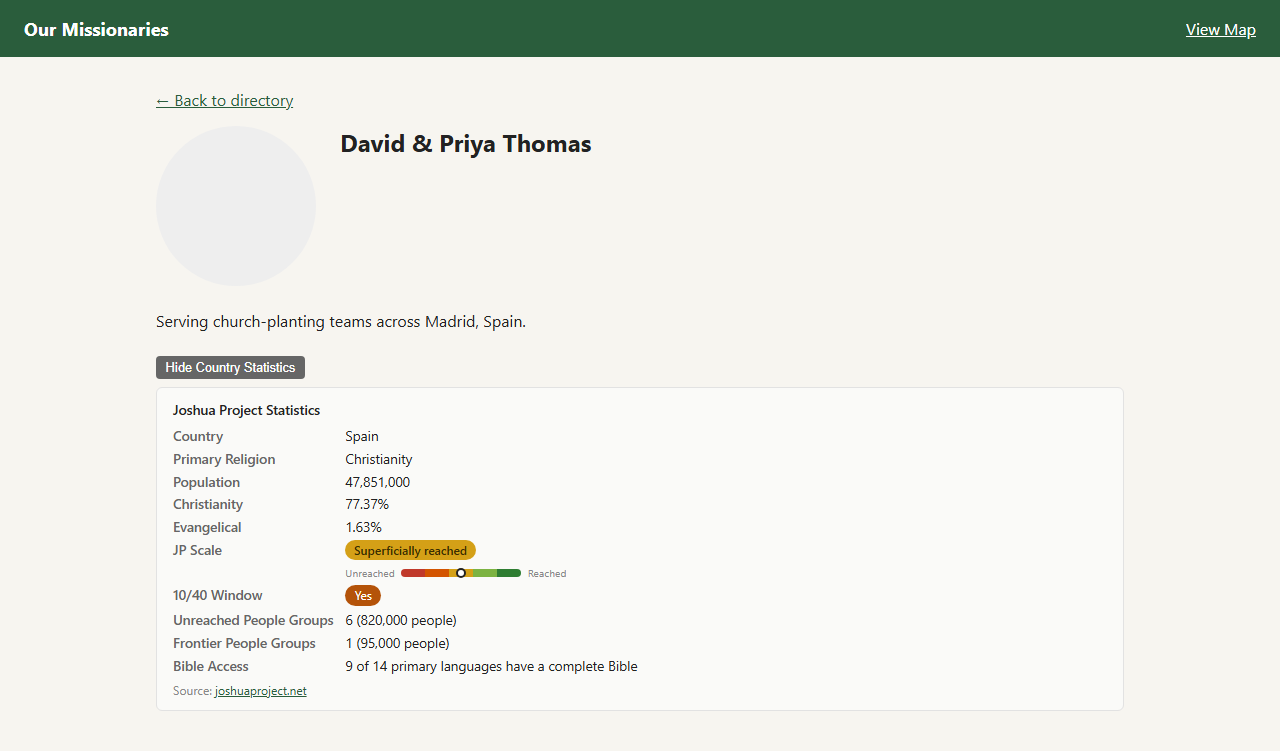
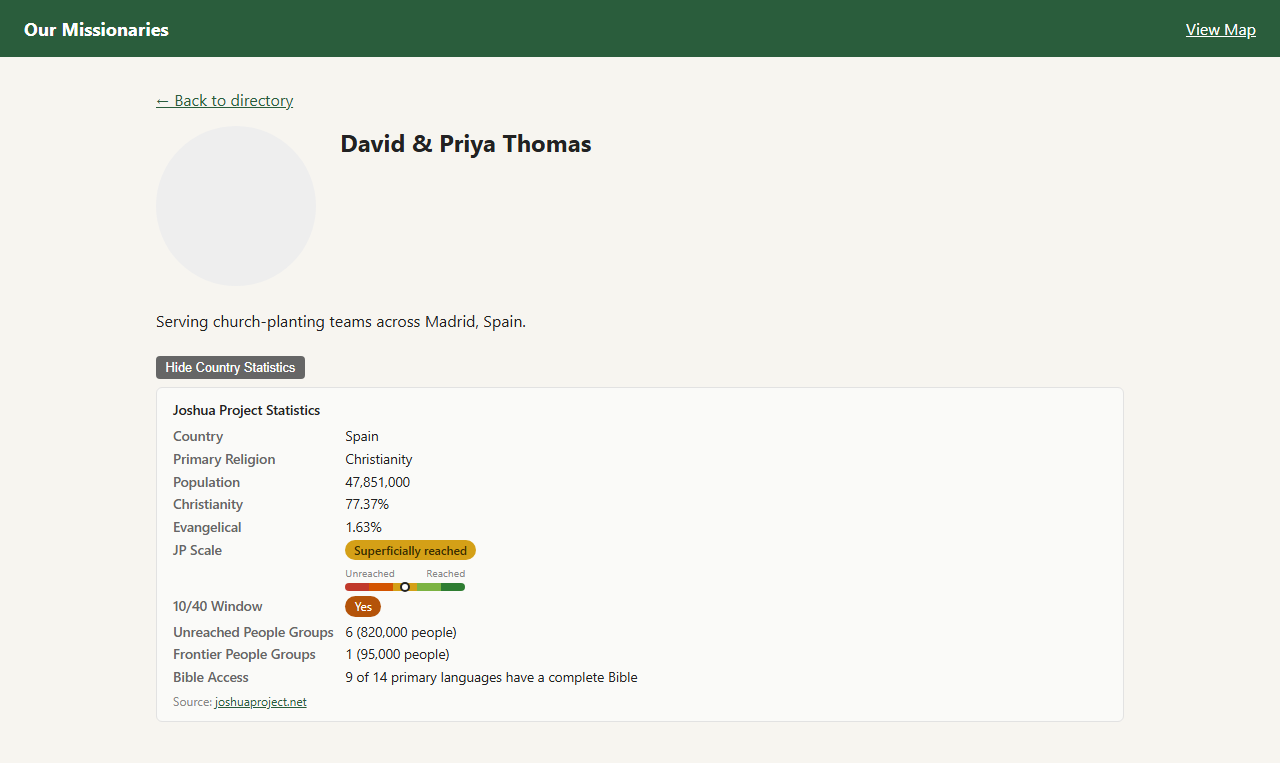
Move the gauge's Unreached/Reached labels above the track, not beside it

diff --git a/frontend/src/components/CountryStats.jsx b/frontend/src/components/CountryStats.jsx
@@ -116,7 +116,10 @@ export default function CountryStats({ countryCode }) {
                                 {info.JPScaleText}
                               </span>
                               <div className="jp-scale-gauge" title={title}>
-                                <span className="jp-scale-gauge-label">Unreached</span>
+                                <div className="jp-scale-gauge-labels">
+                                  <span>Unreached</span>
+                                  <span>Reached</span>
+                                </div>
                                 <span className="jp-scale-gauge-track">
                                   <span className="jp-scale-1" />
                                   <span className="jp-scale-2" />
@@ -128,7 +131,6 @@ export default function CountryStats({ countryCode }) {
                                     style={{ left: `${((tier - 0.5) / 5) * 100}%` }}
                                   />
                                 </span>
-                                <span className="jp-scale-gauge-label">Reached</span>
                               </div>
                             </>
                           ) : (

diff --git a/frontend/src/index.css b/frontend/src/index.css
@@ -788,15 +788,15 @@ a {
 /* The gauge reuses .jp-scale-1..5 above as bare background-color segments
    (no text inside them, so their `color` rule is simply unused there). */
 .jp-scale-gauge {
-  display: flex;
-  align-items: center;
-  gap: 0.4rem;
+  width: 120px;
   margin-top: 0.4rem;
 }
-.jp-scale-gauge-label {
+.jp-scale-gauge-labels {
+  display: flex;
+  justify-content: space-between;
   font-size: 0.65rem;
   color: #888;
-  white-space: nowrap;
+  margin-bottom: 0.2rem;
 }
 .jp-scale-gauge-track {
   position: relative;
